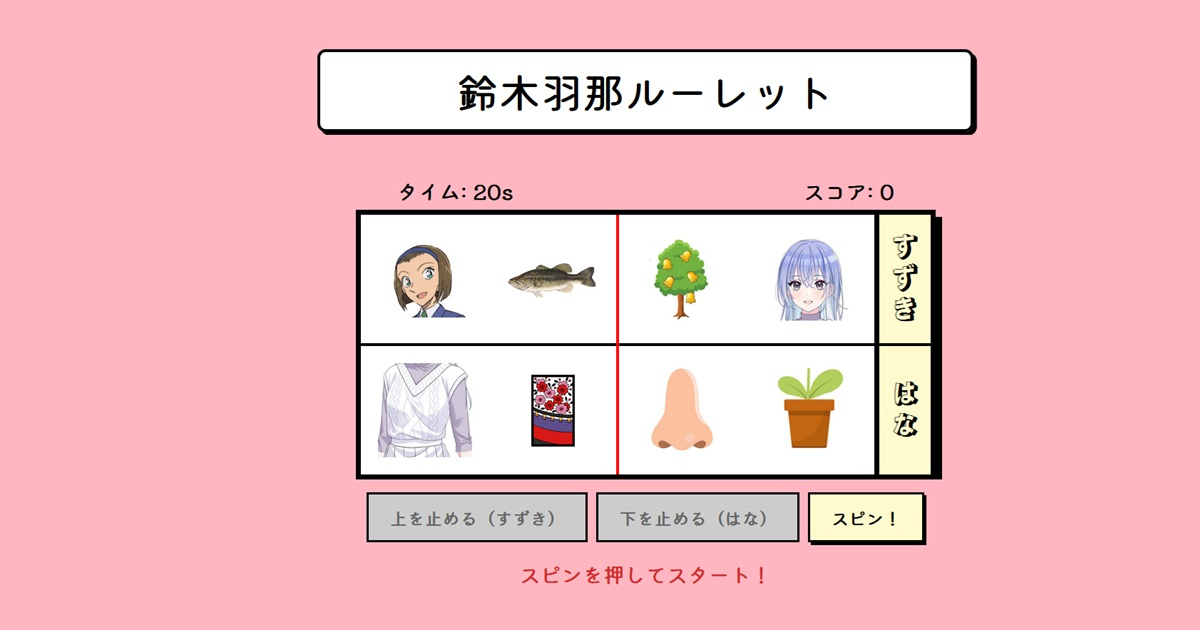
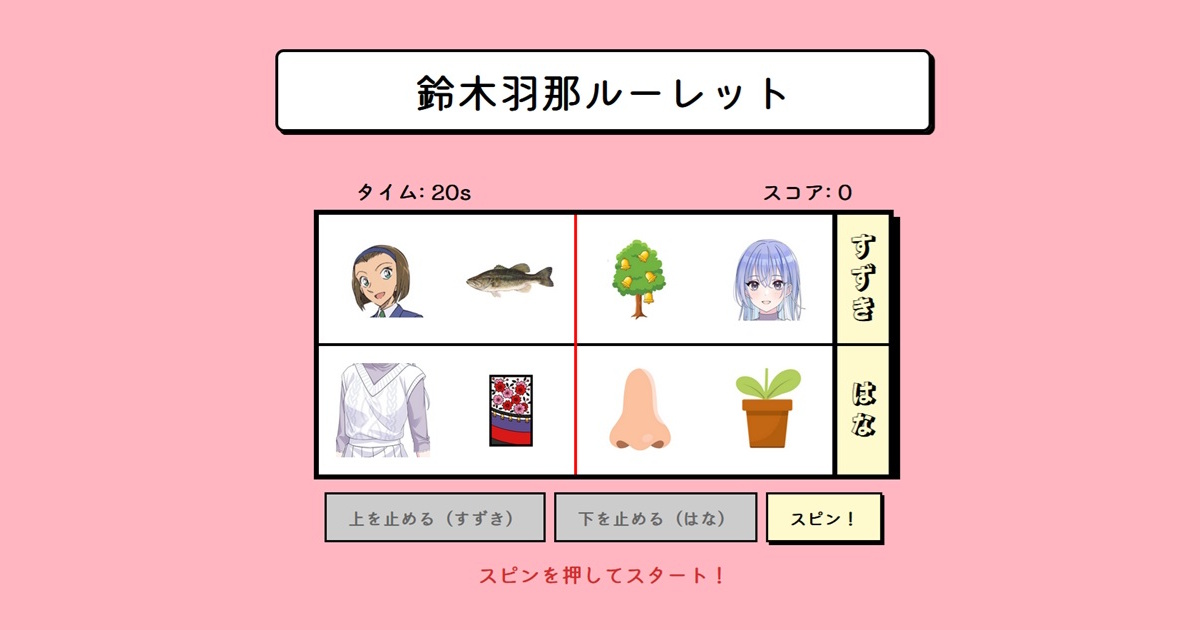
Change URLs

diff --git a/index.html b/index.html
@@ -12,17 +12,17 @@
 
     <!-- Open Graph / Facebook / Discord -->
     <meta property="og:type" content="website">
-    <meta property="og:url" content="https://largetilapia.github.io/suzuki-hana-roulette">
+    <meta property="og:url" content="https://largetilapia.github.io/suzuki-hana-roulette-match">
     <meta property="og:title" content="鈴木羽那ルーレット">
     <meta property="og:description" content="すずきとはなを揃えて高得点を目指そう！">
-    <meta property="og:image" content="https://largetilapia.github.io/suzuki-hana-roulette/preview.jpg">
+    <meta property="og:image" content="https://largetilapia.github.io/suzuki-hana-roulette-match/preview.jpg">
 
     <!-- Twitter -->
     <meta property="twitter:card" content="summary_large_image">
-    <meta property="twitter:url" content="https://largetilapia.github.io/suzuki-hana-roulette">
+    <meta property="twitter:url" content="https://largetilapia.github.io/suzuki-hana-roulette-match">
     <meta property="twitter:title" content="鈴木羽那ルーレット">
     <meta property="twitter:description" content="すずきとはなを揃えて高得点を目指そう！">
-    <meta property="twitter:image" content="https://largetilapia.github.io/suzuki-hana-roulette/preview.jpg">
+    <meta property="twitter:image" content="https://largetilapia.github.io/suzuki-hana-roulette-match/preview.jpg">
 
     <title>鈴木羽那ルーレット</title>
     <link rel="icon" type="image/x-icon" href="favicon.ico">
@@ -973,7 +973,7 @@
         applyLanguage();
 
         // --- SHARE FUNCTIONALITY ---
-        const GAME_URL = "https://largetilapia.github.io/suzuki-hana-roulette/";
+        const GAME_URL = "https://largetilapia.github.io/suzuki-hana-roulette-match/";
 
         function getShareText(finalScore) {
             // Feel free to customize the Japanese/English text here!
